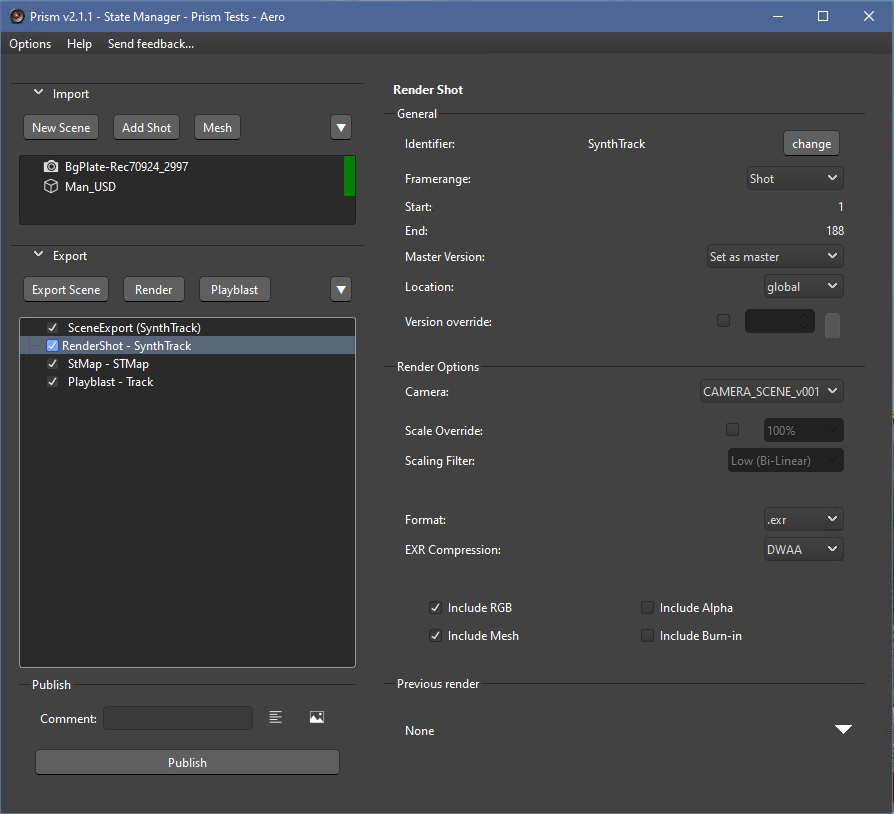
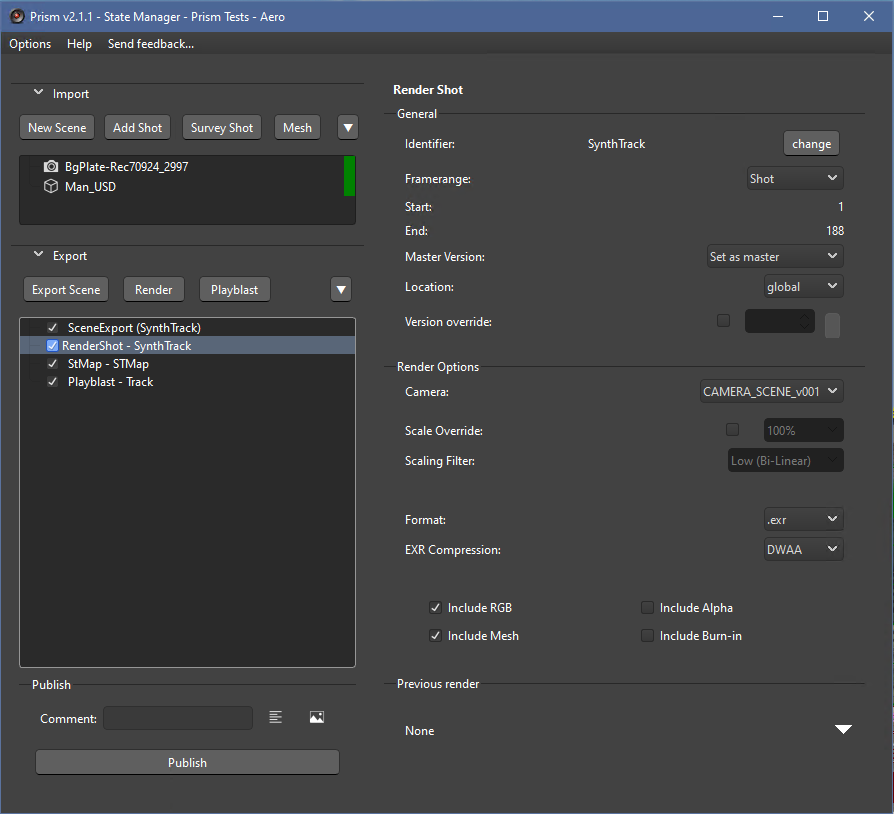
Adding SurveyShot Docs #69

Changed region(s): [[0.0302, 0.1229, 0.4228, 0.1843]]

diff --git a/Docs/AddShots.md b/Docs/AddShots.md
@@ -6,15 +6,17 @@ Adding Shots (Cameras) to SynthEyes is done through the AddShots import state.
 
 <br/>
 
-## **Scene / Shot:**
+## **New Scene / Add Shot / Survey Shot:**
 
 ![SM_AddShot-ShotScene](DocsImages/SM-AddShot_ShotScene.png)
 
-There are two choices when importing media:
+There are three choices when importing media:
 
 - **New Scene:** This is the same as the 'New' menu item in SynthEyes and will create a completely new Scene.  Be aware this will delete all existing Cameras in the Scene, and should be used to import the main "hero" shot.
 
 - **Add Shot:**  This is the same as the SynthEyes 'Add Shot' menu item.  This will import and add an additional Shot/Camera to the existing scene.
+
+- **Survey Shot:**  This is the same as the SynthEyes 'Add Survey Shot' menu item.  This will allow the selection and importing of Survey Images to create a Survey Camera to the existing scene (see **Survey Shot** below).
 
 ## **Importing:**
 
@@ -28,8 +30,11 @@ There are several ways to select the media:
 
  - **Double-click Version:**  Will load and import the selected version and open the 'Edit Shot' dialogue.
 
-> [!IMPORTANT]  
-> As of now, you cannot delete an added shot from SynthEyes.  The AddShot state will be deleted, but there will be no changes to the SynthEyes scene.
+> [!IMPORTANT]
+> Although SynthEyes allows deletion of additional shots, you cannot delete the 'Scene' shot. If you right-click-delete the Scene Shot State, it will be removed from the State Manager, but will not be removed from the SynthEyes scene.
+
+> [!CAUTION]  
+> Deleting shots in SynthEyes can be a bit fragile.  Please make sure you save the scene before deleting a Shot State.
 
 ### **State Functions:**
 
@@ -45,6 +50,60 @@ There are several ways to select the media:
  - **"Camera Name"**:  This allows for editing the Camera name in SynthEyes.  When initially created, the AddShot state will configure the name based on the type of import.  Any changes to the camera name in the State will be reflected in SynthEyes, as well as changes in SynthEyes will be reflected here (see **Camera Naming** below).
 
 </br>
+
+ ## **Survey Shot:**
+
+Survey Shots are a special type of a Shot/Camera in SynthEyes, and are a collection of still images listed together in a '.ifl' file.  The Prism integration provides UI to select, view, arrange, and import the Survey images.
+
+> [!NOTE]
+> Please see the SynthEyes User Manual for more information and usage of Survey Shots.
+
+![SurveyShot Overview](DocsImages/SM-SurveyShot_Overview.png)
+
+ <br/>
+
+ ### **Survey Image Viewer:**
+
+After selecting the images for the Survey Shot in the Select Media popup window, the images will be displayed in the Survey Image Viewer.  This allows the user to preview the Survey images, and to arrange as desired.
+
+![SurveyViewer Overview](DocsImages/SurveyViewer_Overview.png)
+
+> [!NOTE]
+> Survey images can be any arbitrary set of images, but the Image Viewer will attempt to import an image sequence using standard sequence frame-number matching.  If more images that were not recognized need to be added, click the 'Add Images' button to open the File Explorer.
+
+After a Survey Shot has been created, it can be edited by clicking the 'Edit' button in the AddShot State.  This will open the .ifl file in the Survey Image Viewer and allow further editing of the Survey Image list.
+
+ <br/>
+
+#### **Playback:**
+
+The Survey Image Viewer has standard playback controls, and by default the playback rate is 2 fps.  This slow speed allows for better viewing of the Survey sequence. The playback speed can be changed by right-clicking the Play/Pause button.
+
+![SurveyViewer Overview](DocsImages/SurveyViewer_FPS.png)
+
+ <br/>
+
+#### **Image Ordering:**
+
+The Survey Image Viewer displays the selected images in the image list.  The order of the images in the list will be the order they are used in the SynthEyes Survey Shot (see the SynthEyes User Manual for more information).
+
+ When the images are initially imported into the Viewer, an attempt is made to recognize image sequences based on standard frame-numbering, and displayed in order. The image files in the list can be manually re-ordered by drag/dropping in the UI, or using the options in the right-click menu of the items.
+
+![SurveyViewer Overview](DocsImages/SurveyViewer_RCL.png)
+
+ <br/>
+
+#### **IFL Save Location:**
+
+As described above, a SynthEyes Survey Shot uses a simple text file with an '.ifl' extension that holds the filepath for each image used for the Survey Shot.  By default, SynthEyes saves this file in the same directory as the source images.  The Prism integration allows for a user-configurable location (see [**Interface**](Interface.md)) for the .ifl to be saved.
+
+![SurveyViewer IFL Loc](DocsImages/SurveyViewer_IFL_loc.png)
+
+- **Next to images:** This will save the .ifl file in the same directory as the source images (SynthEyes default).
+- **Subdir in images:** This will create a new '_ifl' subdir for the file in the source images dir.
+- **Project Pipeline dir:** This will create a 'SynthEyes/IFL' directory in the Project's pipeline folder for the .ifl file.  It will use the Prism Shot/Asset name as a subdir in the IFL dir for the 'ifl' file.
+
+ <br/>
 
 ### **Camera Naming:**
 

diff --git a/README.md b/README.md
@@ -17,6 +17,7 @@ https://prism-pipeline.com/
 
 - Standard Prism DCC Integration.
 - Scene/Shot creation through the Prism State Manager.
+- Survey Shot handling via custom State.
 - 3d Mesh Importing through the Prism State Manager.
 - Scene Exporting to many formats.
 - Shot and Playblast rendering.
